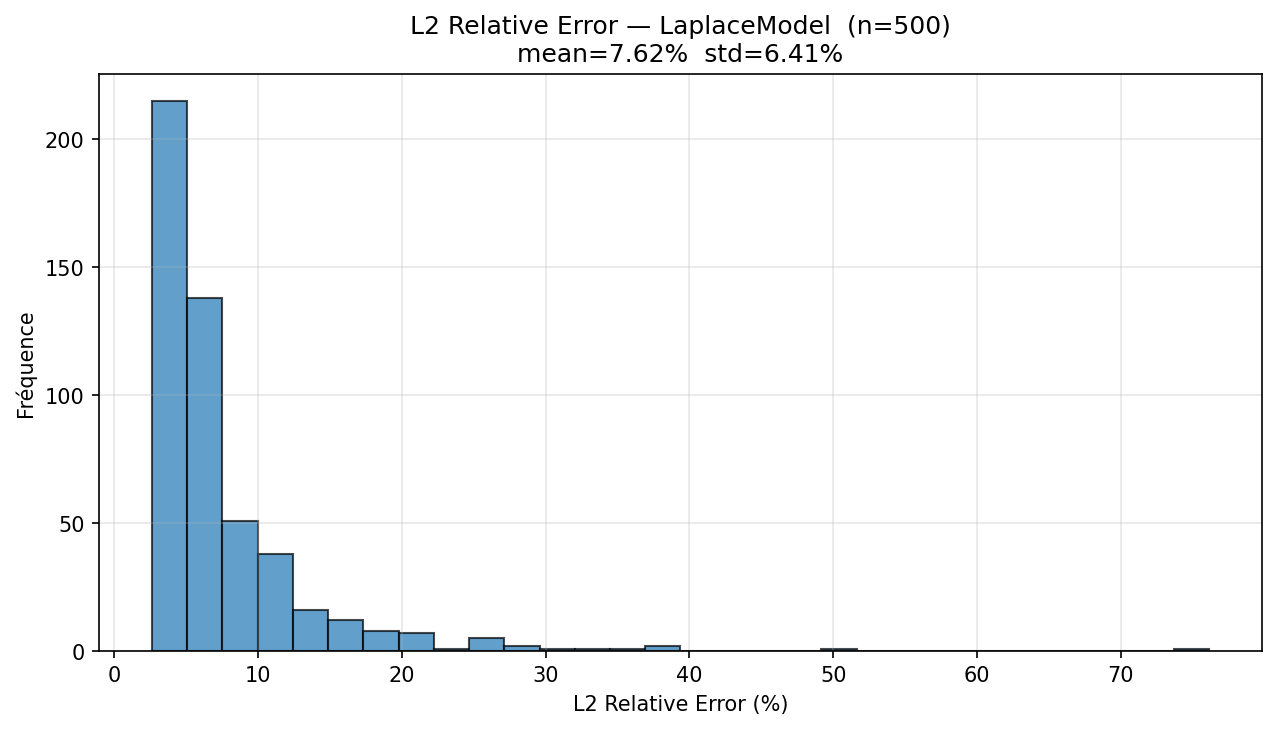
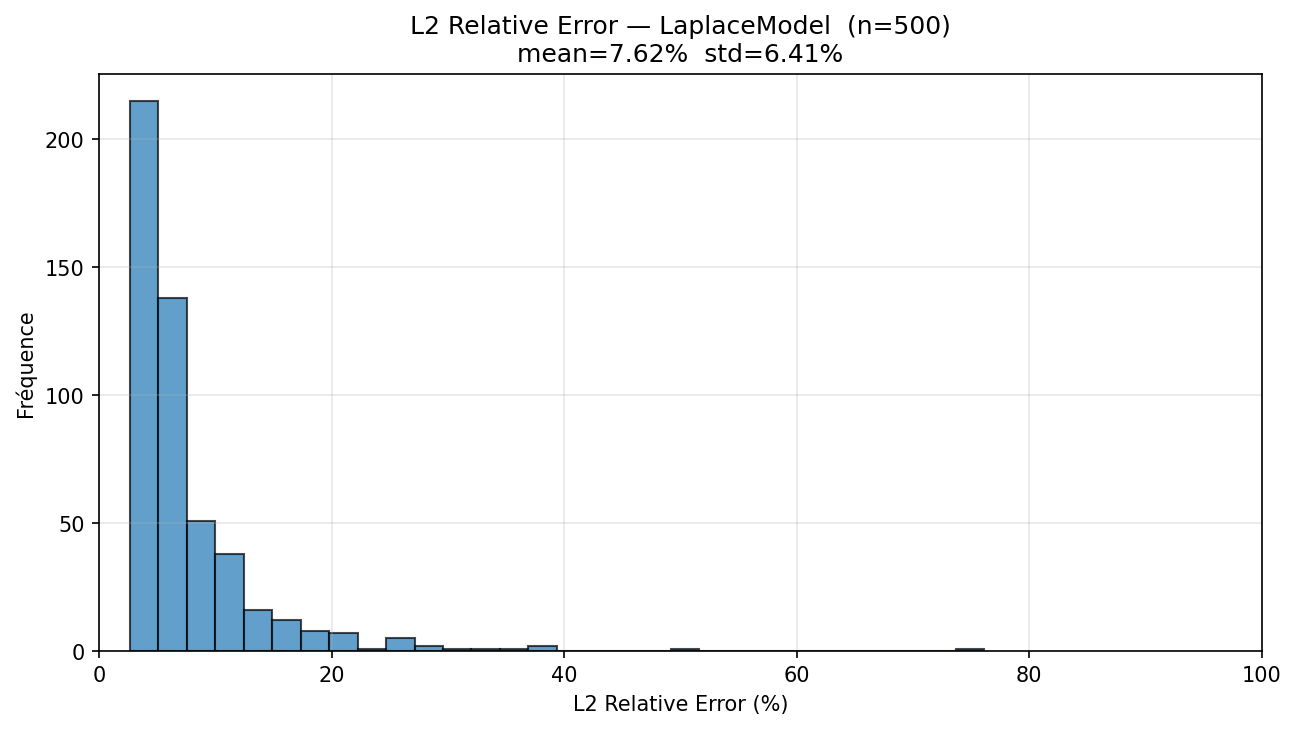
meme scale

diff --git a/transient/main.py b/transient/main.py
@@ -180,6 +180,7 @@ def evaluate(U, theta, ckpt_path: str, test_idx=None,
     print(f"Sauvegarde de l'histogramme...")
     plt.figure(figsize=(10, 5))
     plt.hist(l2rel * 100, bins=30, edgecolor='black', alpha=0.7)
+    plt.xlim((0,100))
     plt.xlabel('L2 Relative Error (%)')
     plt.ylabel('Fréquence')
     plt.title(f'L2 Relative Error — {model_type}  (n={n_test})\n'
@@ -209,7 +210,7 @@ def evaluate(U, theta, ckpt_path: str, test_idx=None,
 
 
 def main(
-    ckpt_path = 'checkpoints/LaplaceModel.pt',
+    ckpt_path = 'checkpoints/SVDSurrogate_best.pt',
     data_path = 'dataset/dataset_transient.npz',
     theta     = [[1.0, 0.5, 0.3, 2.0]],
     dt        = None,
